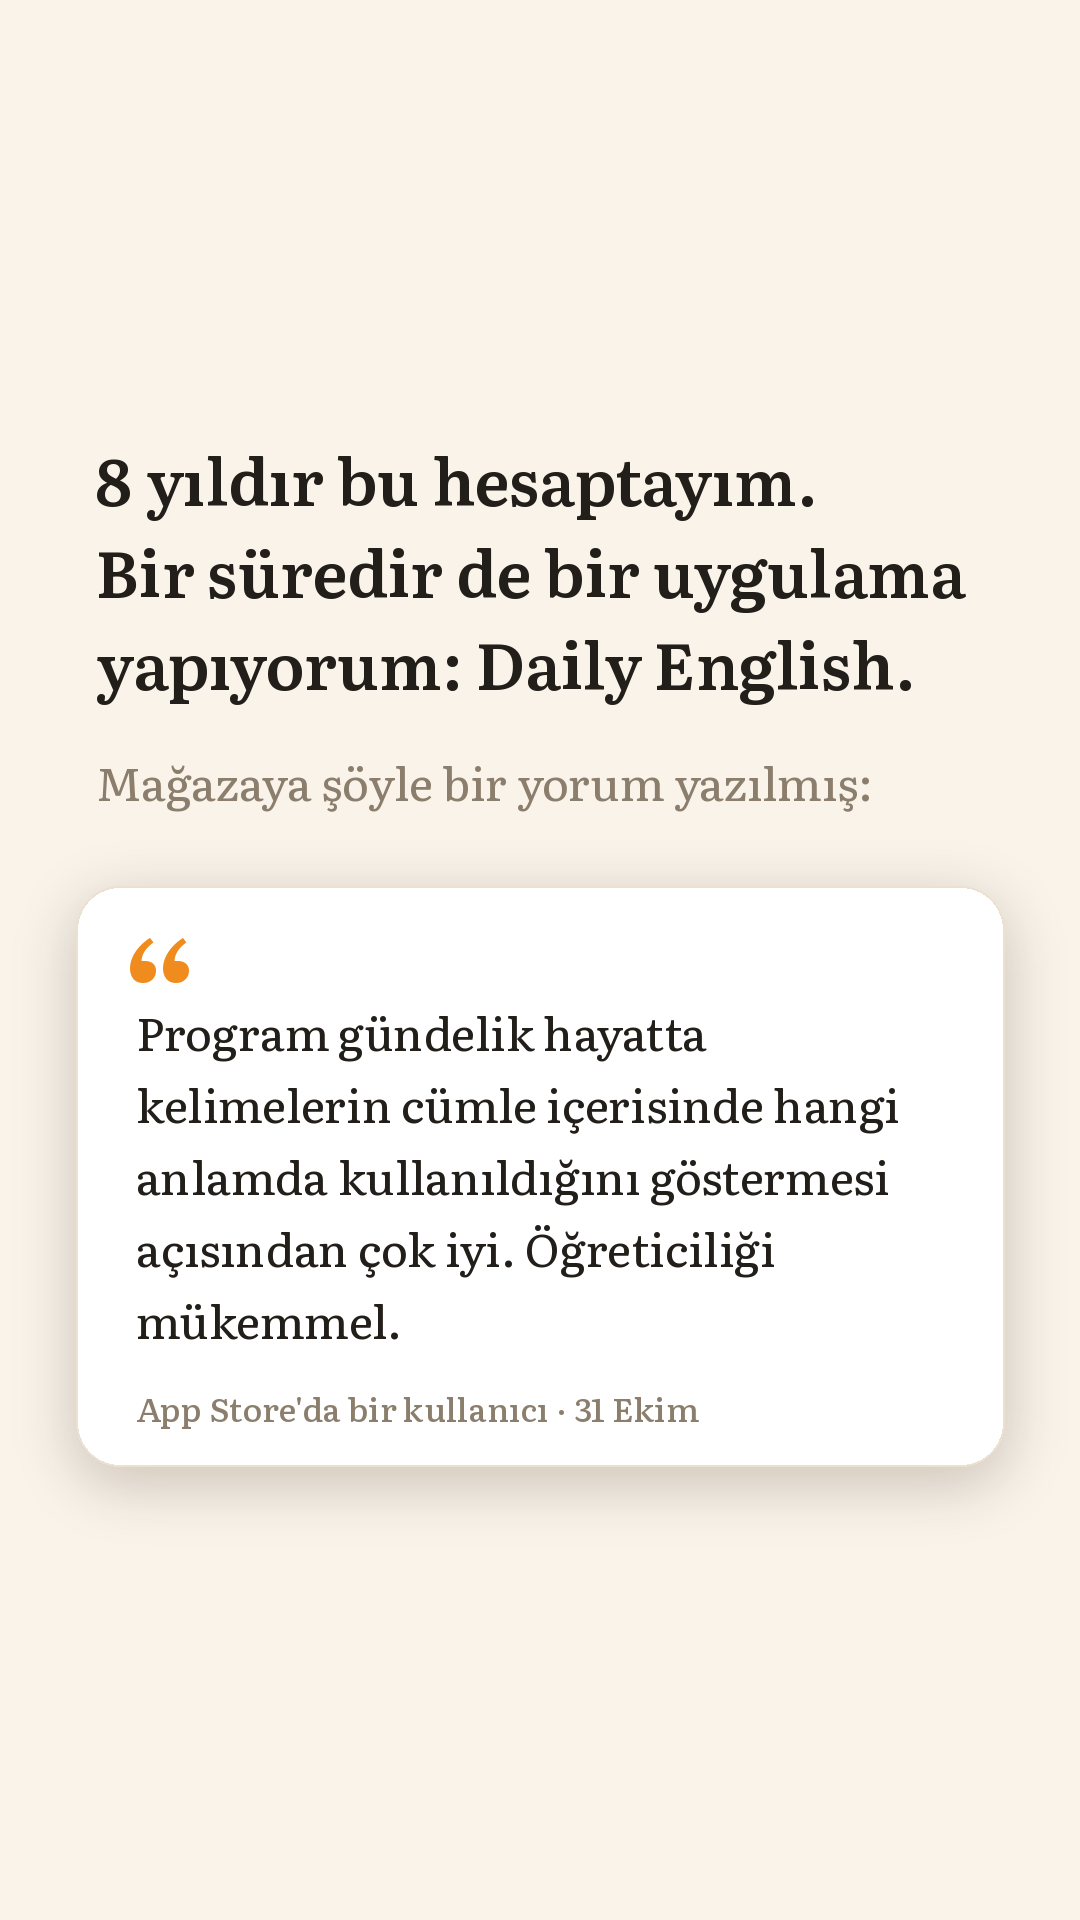
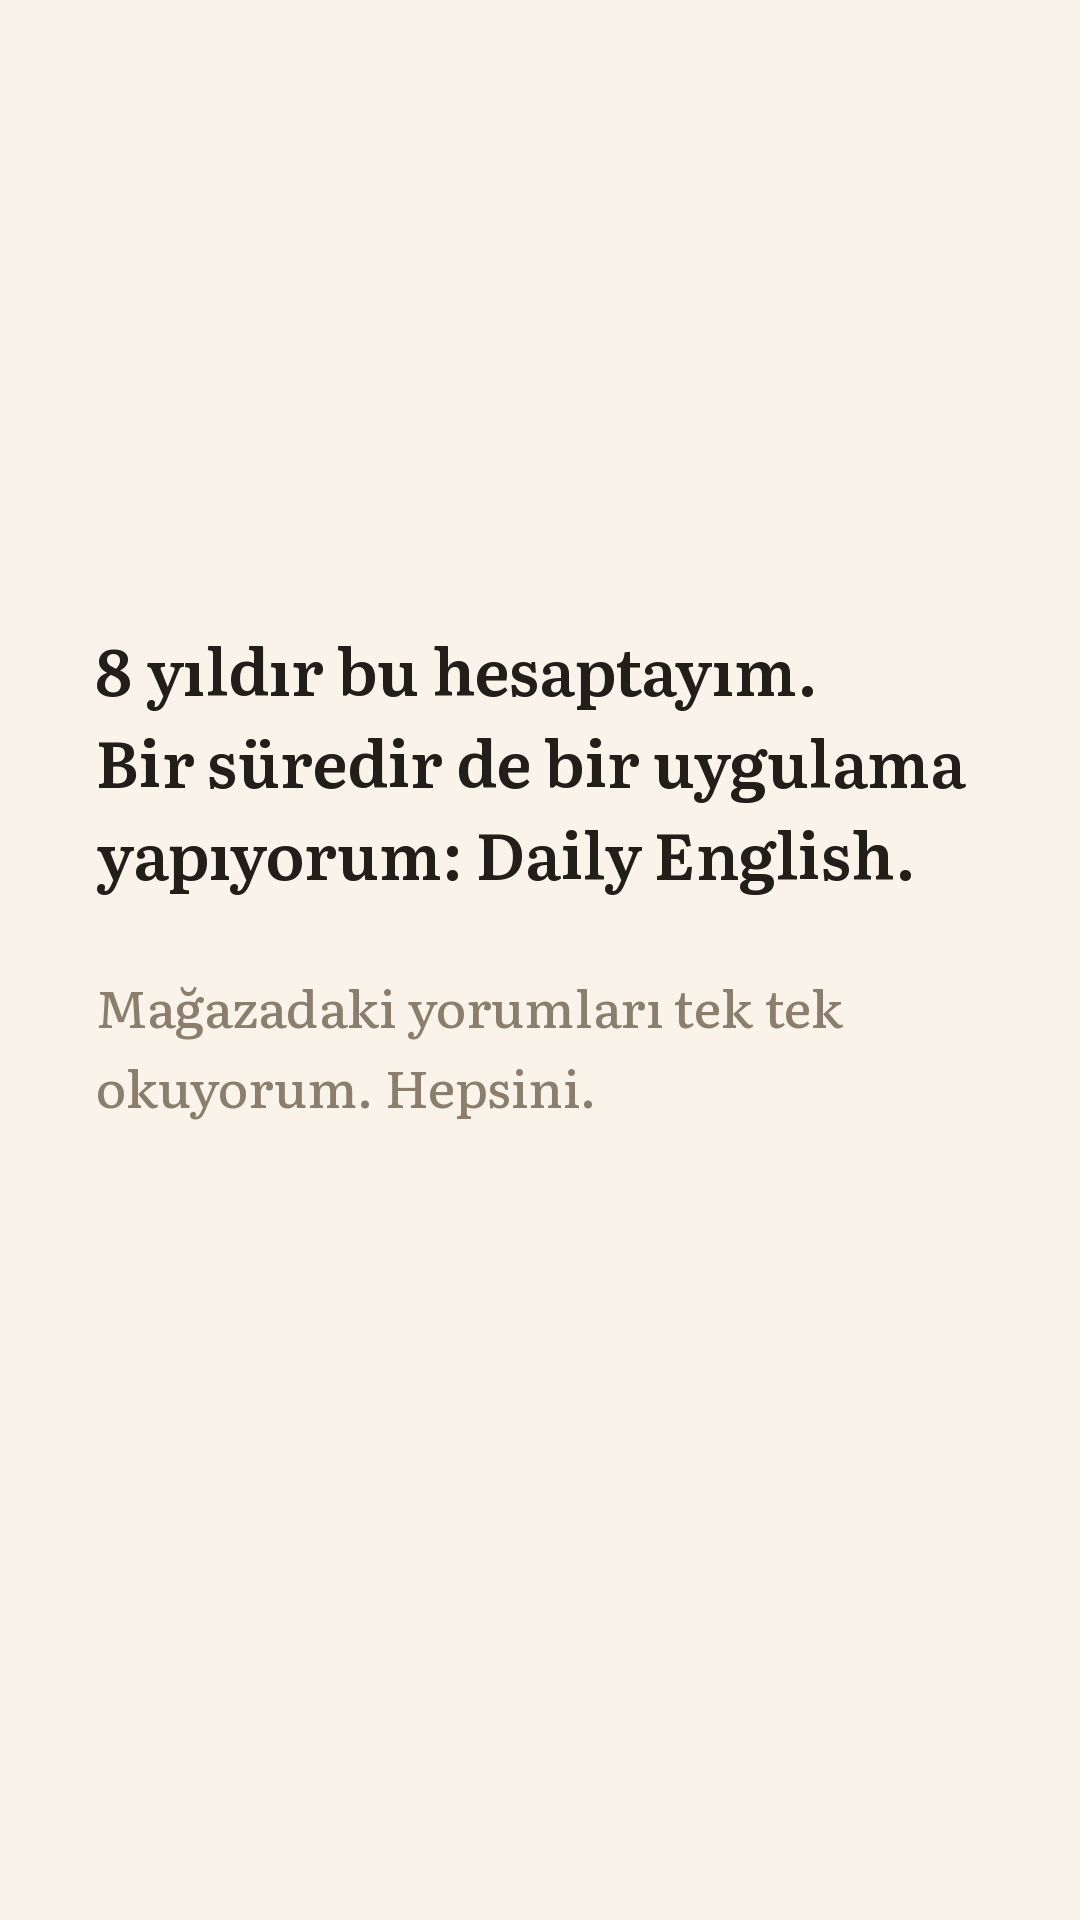
Mağaza yorumu hikayesi: kare 1 yorumsuz, teşekkür karesinde kısa alıntı
Claude-Session: https://claude.ai/code/session_019qtCGA3eorTyVVpn2iHJeU

Changed region(s): [[0.0611, 0.2188, 0.9167, 0.7812], [0.9167, 0.5, 0.9472, 0.75]]

diff --git a/icerik/2026-11-26_hikaye_magaza-yorumu/yorum.py b/icerik/2026-11-26_hikaye_magaza-yorumu/yorum.py
@@ -43,9 +43,8 @@ def save(im,n):
 
 # Kare 1 — hikaye + gerçek yorum
 im=Image.new('RGB',(W,H),BG); d=ImageDraw.Draw(im)
-y=block(d,430,"8 yıldır bu hesaptayım.\nBir süredir de bir uygulama yapıyorum: Daily English.",font(64,600),92)
-y=block(d,y+40,"Mağazaya şöyle bir yorum yazılmış:",font(46,420),70,GREY)
-card(im,y+70,"Program gündelik hayatta kelimelerin cümle içerisinde hangi anlamda kullanıldığını göstermesi açısından çok iyi. Öğreticiliği mükemmel.","App Store'da bir kullanıcı · 31 Ekim")
+y=block(d,620,"8 yıldır bu hesaptayım.\nBir süredir de bir uygulama yapıyorum: Daily English.",font(64,600),92)
+y=block(d,y+70,"Mağazadaki yorumları tek tek okuyorum. Hepsini.",font(52,450),80,GREY)
 save(im,'yorum_1.png')
 
 # Kare 2 — istek (App Store link çıkartması alttaki boşluğa)
@@ -66,7 +65,7 @@ save(im,'yorum_3_android.png')
 # Ertesi gün — teşekkür
 im=Image.new('RGB',(W,H),BG); d=ImageDraw.Draw(im)
 y=block(d,560,"Okudum. Teşekkürler.",font(72,650),100)
-card(im,y+80,"Tasarımı gerçekten çok hoşuma gitti. Gereksiz özelliklerle dolu değil. Okumaya odaklanabiliyorum. Gelişmeye devam etmesini isterim.","App Store'da bir kullanıcı · 1 Kasım")
+card(im,y+80,"…Okumaya odaklanabiliyorum.","App Store'da bir kullanıcı · 1 Kasım")
 save(im,'yorum_4_tesekkur.png')
 
 sheet=Image.new('RGB',(4*360+50,640),(200,200,200))

diff --git a/icerik/2026-11-26_hikaye_magaza-yorumu/PAKET.md b/icerik/2026-11-26_hikaye_magaza-yorumu/PAKET.md
@@ -17,3 +17,9 @@ Yorumlar kelimesi kelimesine; kullanıcı adı gösterilmiyor ("App Store'da bir
 4. `yorum_4_tesekkur.png` – ertesi gün (Cum 27). Kampanyadan yeni yorum gelirse onunla yeniden üretilir; gelmezse bu (1 Kas yorumu) kullanılır.
 
 Öne çıkanlar: "Yorumlar". Ölçüm: hikaye bağlantı dokunuşu; App Store yorum sayısı 25 Kas = 7 → 29 Kas ve 3 Ara'da tekrar sayılacak.
+
+## Revizyon (25 Kas 19:27, Mehmet)
+Mevcut yorumların bir kısmı arkadaş yorumu/zorlama gibi duruyor. Karar: yorum metni asla düzenlenmez, olmayan yorum yazılmaz.
+- Kare 1: yorum kartı kaldırıldı; yedek metin: "Mağazadaki yorumları tek tek okuyorum. Hepsini."
+- Kare 4: 1 Kas yorumundan yalnız "…Okumaya odaklanabiliyorum." (kısaltma üç noktayla belli, anlam değişmedi).
+- Kural (kalıcı): mağaza yorumu ya kelimesi kelimesine ya üç noktalı kısaltmayla ya da tırnaksız aktarım olarak kullanılır; içerik değiştirilmez. Zorlama duran yorum gösterilmez.
